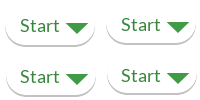
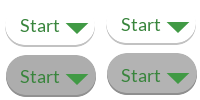
Start button fix

diff --git a/public/src/js/lib/phasercomponents.js b/public/src/js/lib/phasercomponents.js
@@ -674,6 +674,9 @@ function(Phaser, View, Utils,
 	
 	
 	var AbstractButton = function(options){
+		if(typeof options.disabledAlpha === 'undefined'){
+			options.disabledAlpha = 0.5;
+		}
 		options.asset = options.asset || 'button';
 		this.frames = options.frames || [0, 1, 2, 3];
 		this.mouseDownSignal = new Phaser.Signal();
@@ -692,10 +695,12 @@ function(Phaser, View, Utils,
 	};
 
 	AbstractButton.prototype.select = function(){
+		console.log("select button");
 		this.goToFrame(1);
 	};
 
 	AbstractButton.prototype.deselect = function(){
+		console.log("deselect button");
 		this.goToFrame(0);
 	};
 
@@ -711,7 +716,6 @@ function(Phaser, View, Utils,
 			this.eventDispatcher.trigger({"type":AppEvents.PLAY_SOUND, "data":this.options.sfx});
 		}
 		this.mouseUpSignal.dispatch({"target":this});
-		
 	};
 	
 	AbstractButton.prototype.addListeners = function(){
@@ -733,6 +737,14 @@ function(Phaser, View, Utils,
 		}
 	};
 	
+	AbstractButton.prototype.disableInput = function(){
+		if(this.sprite.inputEnabled){
+			this.sprite.inputEnabled = false;
+			this.tweenAlpha(this.options.disabledAlpha, false);
+			this.removeListeners();
+		}
+	};
+
 	AbstractButton.prototype.stopTweens = function(){
 		if(this.fadeTween){
 			this.fadeTween.stop();
@@ -749,14 +761,6 @@ function(Phaser, View, Utils,
 			delay = 50;
 		}
 		this.fadeTween = this.game.add.tween(this.sprite).to( {'alpha':a}, duration, Phaser.Easing.Linear.None, true, delay, false);
-	};
-
-	AbstractButton.prototype.disableInput = function(){
-		if(this.sprite.inputEnabled){
-			this.sprite.inputEnabled = false;
-			this.tweenAlpha(0.5, false);
-			this.removeListeners();
-		}
 	};
 	
 	AbstractButton.prototype.mouseDown = function(){
@@ -947,6 +951,7 @@ ButtonGridModel, Utils){
 	};
 	
 	ButtonGrid.prototype.showSelected = function(index) {
+		console.log("ButtonGrid showSelected "+index);
 		this.buttons.forEach(function(button, i){
 			if(i === index){
 				button.select();

diff --git a/public/src/js/app/prog/progcommandpanel.js b/public/src/js/app/prog/progcommandpanel.js
@@ -70,15 +70,11 @@ define(
 	};
 
 	ProgCommandPanel.prototype.disableStart = function(){
-		if(this.playButton.mouseUpSignal.has(this.clickPlay, this)){
-			this.playButton.mouseUpSignal.remove(this.clickPlay, this);
-		}	
+		this.playButton.disableInput();
 	};
 	
 	ProgCommandPanel.prototype.enableStart = function(){
-		if(!this.playButton.mouseUpSignal.has(this.clickPlay, this)){
-			this.playButton.mouseUpSignal.add(this.clickPlay, this);
-		}
+		this.playButton.enableInput();
 	};
 
 	ProgCommandPanel.prototype.disableClear = function(){
@@ -135,9 +131,7 @@ define(
 			for(j = 0; j < json[i].length; j++){
 				obj = json[i][j];
 				if(obj.type !== null && obj.type !== undefined){
-					console.log("loading obj "+JSON.stringify(obj));
 					drag = this.addDrag(obj.type, obj.index, false);
-					console.log("added drag "+drag);
 					this.dragManager.snapTo(drag, i, j);
 				}
 			}
@@ -176,6 +170,7 @@ define(
 		var options = {"bounds":{'x':this.bounds.x + (this.bounds.w - PlayButton.WIDTH)/2, 'y':this.bounds.y + 10, 'w':PlayButton.WIDTH, 'h':PlayButton.HEIGHT}};
 		this.playButton = new PlayButton(options);
 		this.group.add(this.playButton.view);
+		this.playButton.mouseUpSignal.add(this.clickPlay, this);
 	};
 
 	ProgCommandPanel.prototype.addClear = function() {

diff --git a/public/src/js/app/views/buttons/playbutton.js b/public/src/js/app/views/buttons/playbutton.js
@@ -8,6 +8,7 @@ define(
 	"use strict";
 	
 	var PlayButton = function(options){
+		options.disabledAlpha = 1;
 		options.asset = Assets.PLAY_BUTTON;
 		PhaserComponents.Display.AbstractButton.call(this, options);
 	};
@@ -16,6 +17,17 @@ define(
 	PlayButton.HEIGHT = 50;
 
 	PhaserComponents.Utils.extends(PlayButton, PhaserComponents.Display.AbstractButton);
+
+	PlayButton.prototype.enableInput = function(){
+		PhaserComponents.Display.AbstractButton.prototype.enableInput.call(this);
+		this.goToFrame(0);
+	};
+	
+	PlayButton.prototype.disableInput = function(){
+		PhaserComponents.Display.AbstractButton.prototype.disableInput.call(this);
+		this.goToFrame(3);
+	};
+
 
 	return PlayButton;
 
